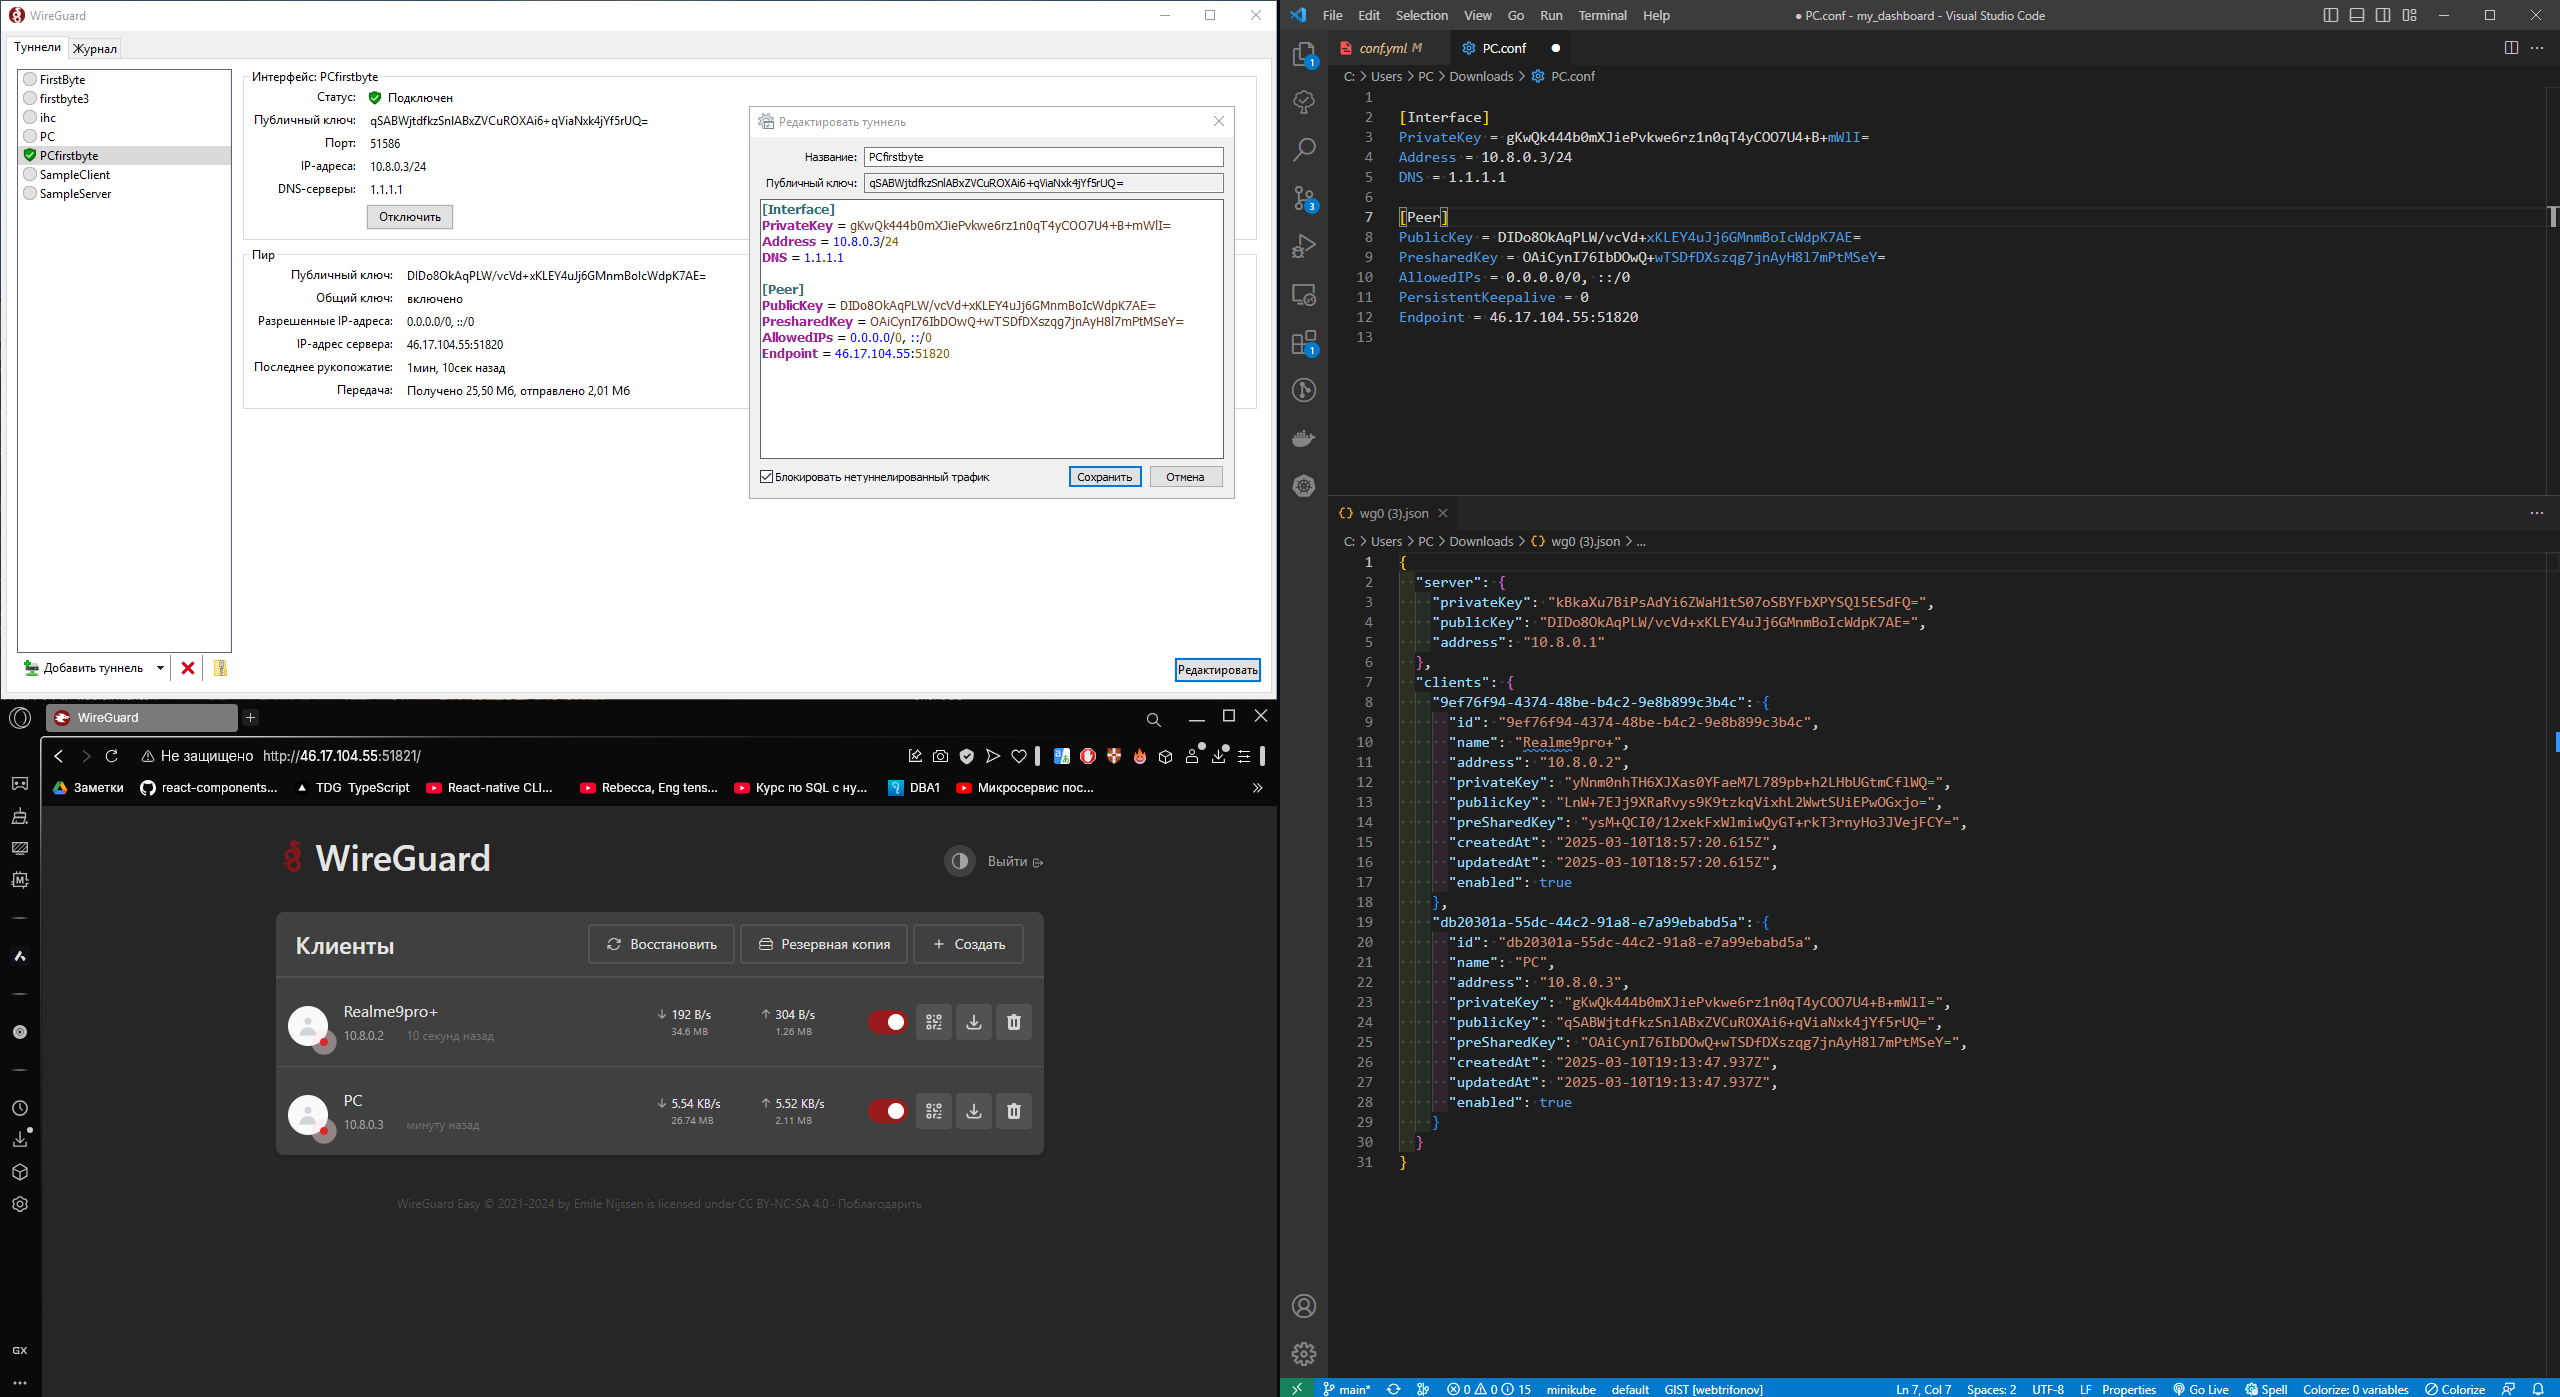
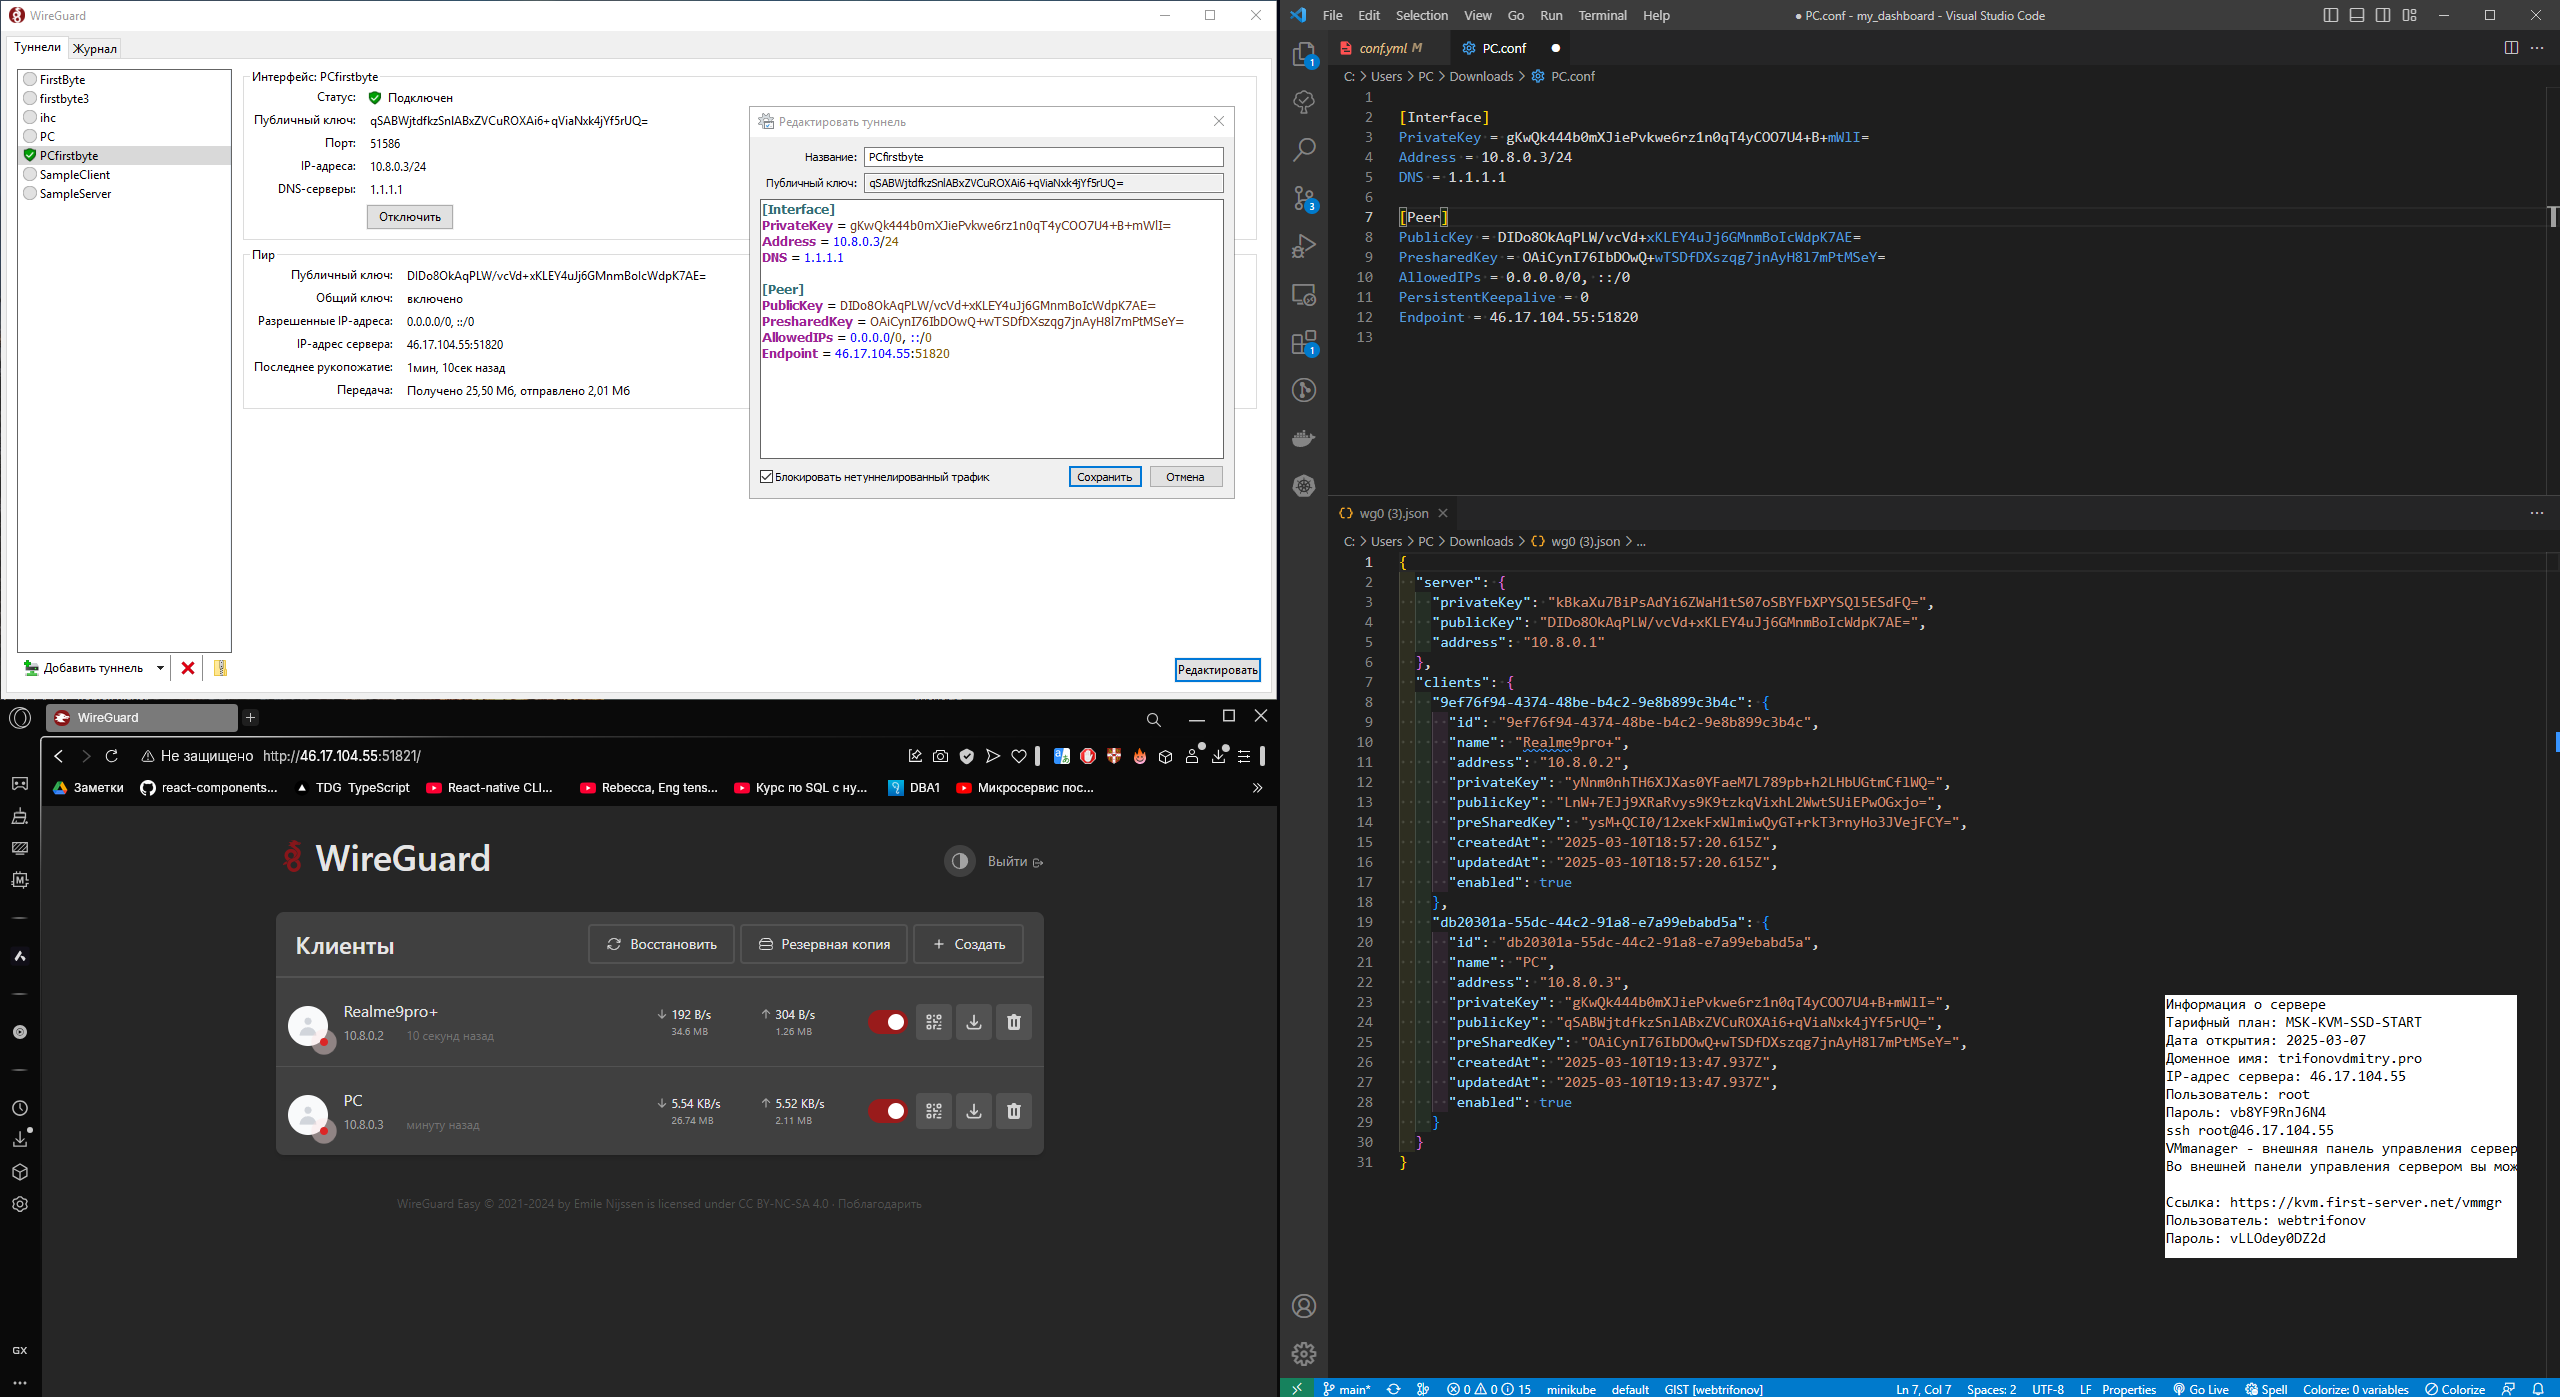
gen config for custom hostname

Changed region(s): [[0.8438, 0.7079, 1.0, 0.9234]]

diff --git a/README.md b/README.md
@@ -1,3 +1,3 @@
 ## My dashboard
 
-provided by dashy
+Dashy и Wireguard VPN отдельные, никак не связанные приложения
